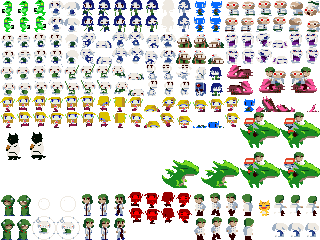
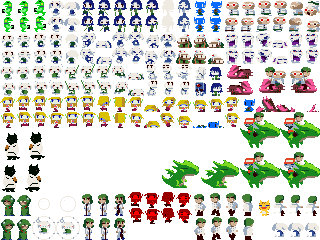
more cutscene wipness

Changed region(s): [[0.0, 0.5542, 0.1562, 0.8167], [0.0, 0.5542, 0.0625, 0.6708]]

diff --git a/src/NpcAct100.cpp b/src/NpcAct100.cpp
@@ -957,12 +957,13 @@ void ActNpc113(NPCHAR *npc)
 {
 	RECT rcLeft[2] = {
 		{0, 128, 24, 160},
-		{24, 128, 48, 160},
+		{24, 128, 48, 160}
 	};
 
-	/*RECT rcRight[0] = {
-
-	};*/
+	RECT rcRight[2] = {
+		{0, 160, 24, 192},
+		{24, 160, 48, 192}
+	};
 
 	switch (npc->act_no)
 	{
@@ -994,10 +995,10 @@ void ActNpc113(NPCHAR *npc)
 	npc->ym += 0x40;
 	npc->y += npc->ym;
 
-	//if (npc->direct == 0)
+	if (npc->direct == 0)
 		npc->rect = rcLeft[npc->ani_no];
-	//else
-		//npc->rect = rcRight[npc->ani_no];
+	else
+		npc->rect = rcRight[npc->ani_no];
 
 }
 
